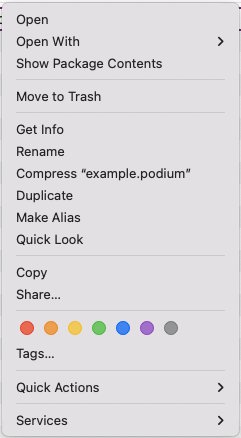
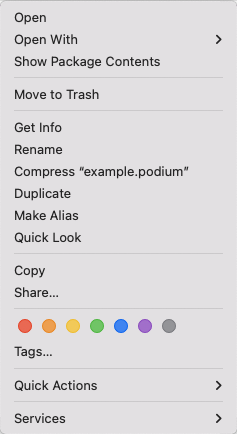
Update screenshot.

diff --git a/examples/example.podium/slides.md b/examples/example.podium/slides.md
@@ -130,14 +130,14 @@ class: logo
 ```python
 def greeting(arg):
     if arg == 'hello':
-        print 'Hello World'
+        print('Hello World')
     else:
-        print arg
+        print(arg)
 
 
-class Something(object):
+class Something():
     def __init__(self, *args, **kwargs):
-        super(Something, self).__init__(*args, **kwargs)
+        super().__init__(*args, **kwargs)
 
 ```
 
@@ -191,7 +191,7 @@ It will then start a new paragraph.
   ```python
   def greeting(arg):
       if arg == 'hello':
-          print 'Hello World'
+          print('Hello World')
   ```
 ---
 # Other inline content

diff --git a/docs/en/reference/index.md b/docs/en/reference/index.md
@@ -4,6 +4,10 @@ TODO: Intro
 
 ## Syntax
 
+### Title slide
+
+### Bullet slides
+
 ## Keyboard shortcuts
 
 - CMD-Shift-P - Enter presentation mode; or, if in presentation mode, Pause timer

diff --git a/docs/en/tutorial/index.md b/docs/en/tutorial/index.md
@@ -71,6 +71,10 @@ Open Finder, and navigate to the `examples` directory. Right-click on the `examp
 
 ![The context menu for the `example.podium` slide deck bundle.](../images/show_package_contents.png)
 
+/// caption
+
+///
+
 Within the `example.podium` bundle, you'll find the following files:
 
 ```text